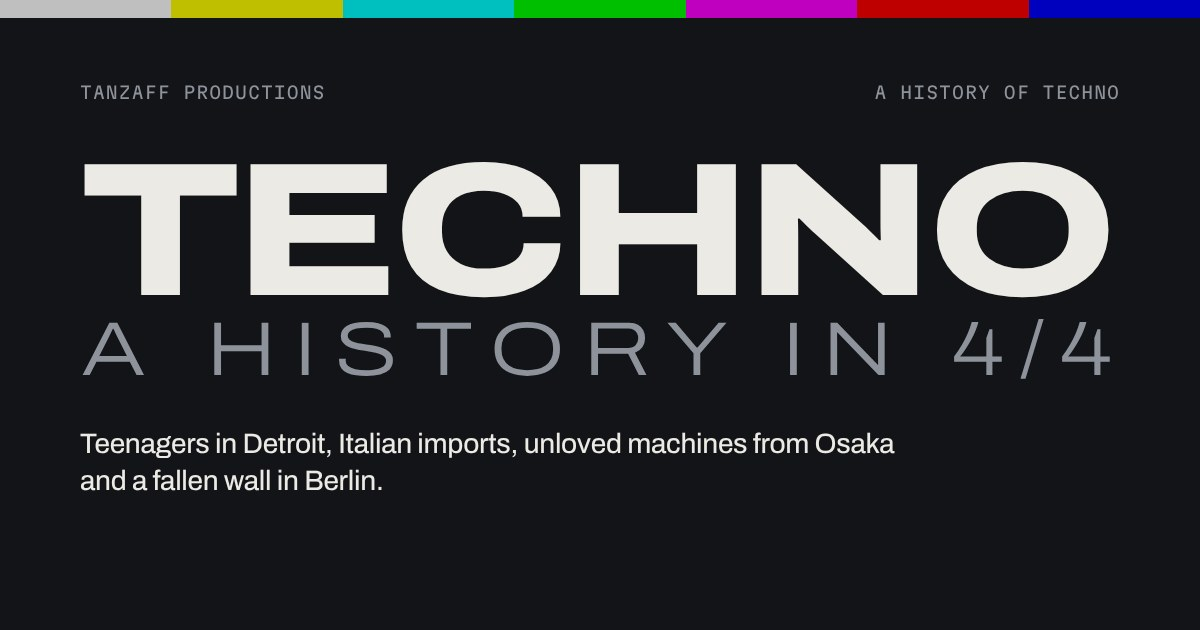
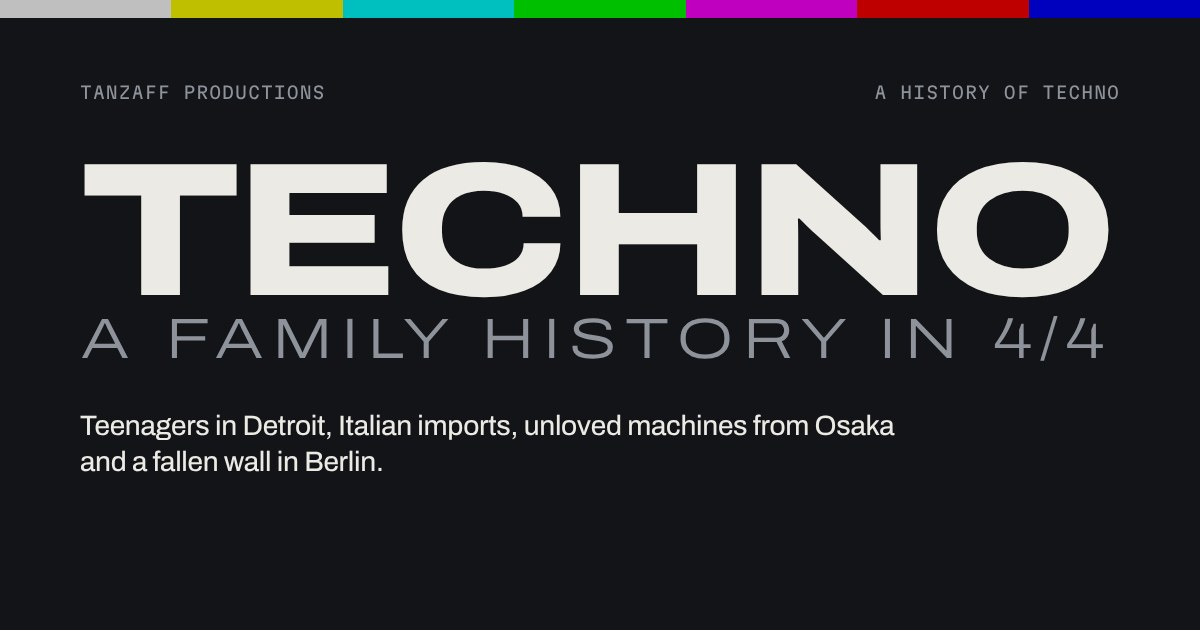
Techno article: subtitle 'A family history in 4/4' (wordmark lockup refitted, og image regenerated); home teaser and side-roads intro reworded
Claude-Session: https://claude.ai/code/session_01KXoz71cHGqvtEfeKz9cG5g

Changed region(s): [[0.0617, 0.4825, 0.925, 0.6032], [0.0617, 0.6635, 0.7708, 0.7841]]

diff --git a/techno/index.html b/techno/index.html
@@ -3,7 +3,7 @@
   <head>
     <meta charset="utf-8" />
     <meta name="viewport" content="width=device-width, initial-scale=1" />
-    <title>Techno, a history in 4/4 | Tanzaff Productions</title>
+    <title>Techno, a family history in 4/4 | Tanzaff Productions</title>
     <meta name="description" content="Teenagers in Detroit, Italian imports, unloved machines from Osaka and a fallen wall in Berlin: how one beat became a music the whole world dances to." />
     <link rel="canonical" href="https://tanzaff.ch/techno/" />
     <meta name="theme-color" content="#121418" />
@@ -11,16 +11,16 @@
     <meta property="og:type" content="article" />
     <meta property="og:site_name" content="Tanzaff Productions" />
     <meta property="og:locale" content="en_US" />
-    <meta property="og:title" content="Techno, a history in 4/4" />
+    <meta property="og:title" content="Techno, a family history in 4/4" />
     <meta property="og:description" content="Teenagers in Detroit, Italian imports, unloved machines from Osaka and a fallen wall in Berlin." />
     <meta property="og:url" content="https://tanzaff.ch/techno/" />
     <meta property="og:image" content="https://tanzaff.ch/techno/media/og.jpg" />
     <meta property="og:image:width" content="1200" />
     <meta property="og:image:height" content="630" />
-    <meta property="og:image:alt" content="Techno, a history in 4/4, by Tanzaff Productions" />
+    <meta property="og:image:alt" content="Techno, a family history in 4/4, by Tanzaff Productions" />
 
     <meta name="twitter:card" content="summary_large_image" />
-    <meta name="twitter:title" content="Techno, a history in 4/4" />
+    <meta name="twitter:title" content="Techno, a family history in 4/4" />
     <meta name="twitter:description" content="Teenagers in Detroit, Italian imports, unloved machines from Osaka and a fallen wall in Berlin." />
     <meta name="twitter:image" content="https://tanzaff.ch/techno/media/og.jpg" />
 
@@ -29,7 +29,7 @@
 
     <link rel="preload" href="../fonts/archivo-latin.woff2" as="font" type="font/woff2" crossorigin />
     <link rel="preload" href="../fonts/martian-mono-latin.woff2" as="font" type="font/woff2" crossorigin />
-    <link rel="stylesheet" href="../styles.css?v=29" />
+    <link rel="stylesheet" href="../styles.css?v=30" />
   </head>
   <body>
     <!-- EBU colour bars at 75%: white, yellow, cyan, green, magenta, red, blue -->
@@ -38,7 +38,7 @@
     <main class="page">
       <header class="masthead">
         <p class="ident"><a class="ident-link" href="../">&larr; Tanzaff Productions</a><span>Music for Monkeys</span><span>A history of techno</span></p>
-        <h1 class="wordmark wordmark-story">Techno <span>A history in 4/4</span></h1>
+        <h1 class="wordmark wordmark-story">Techno <span>A family history in 4/4</span></h1>
         <p class="lead-wrap">
           Teenagers in Detroit, a crate of Italian imports, some unloved machines from Osaka
           and a wall that fell over in Berlin. How one beat got passed around until the whole
@@ -454,7 +454,7 @@
         <div class="story-label"><p class="label label-signal">Side roads</p><p class="tc">1970s&ndash;1982</p></div>
         <div class="story-body">
           <h3 id="sideroads-title" class="story-title">What fed in from outside</h3>
-          <p>Not techno, not its ancestors. Tanzaff borrows from them anyway.</p>
+          <p>Not techno, not its ancestors. They feed into Tanzaff all the same.</p>
           <dl class="facts">
             <div><dt>1970s</dt><dd><b>Dub</b> <span class="muted">&middot; Kingston.</span> Reggae remixed on the mixing desk: echo, reverb, everything dropped out but bass and drums. <span class="tz">Tanzaff</span> Extrasolar Lullaby</dd></div>
             <div><dt>Early 1980s</dt><dd><b>Synth-pop</b> <span class="muted">&middot; UK, Zurich.</span> Pop songs on cheap synths and drum machines. Yello, in Zurich. <span class="tz">Tanzaff</span> Light Weight Baby, Tacoma Bridge, Les Romands</dd></div>

diff --git a/index.html b/index.html
@@ -37,7 +37,7 @@
          styles.css or player.js so a reload picks the changes up. -->
     <link rel="preload" href="fonts/archivo-latin.woff2" as="font" type="font/woff2" crossorigin />
     <link rel="preload" href="fonts/martian-mono-latin.woff2" as="font" type="font/woff2" crossorigin />
-    <link rel="stylesheet" href="styles.css?v=29" />
+    <link rel="stylesheet" href="styles.css?v=30" />
 
     <script type="application/ld+json">
       {
@@ -563,10 +563,10 @@
             </span>
             <span class="history-text">
               <span class="tc history-meta">6 chapters &middot; 1 clip with sound</span>
-              <span class="history-title">Techno, a history in 4/4</span>
-              <span class="history-note">None of this was invented here. The kick, the machines, the habit of misusing them:
-              all borrowed from Detroit teenagers, Italian imports and a Berlin bank vault. Here&rsquo;s the
-              family tree. Footnotes included.</span>
+              <span class="history-title">Techno, a family history in 4/4</span>
+              <span class="history-note">The kick, the machines, the habit of misusing them: they came from Detroit
+              teenagers, Italian imports and a Berlin bank vault. Here&rsquo;s the family tree, Tanzaff included.
+              Footnotes too.</span>
               <span class="teaser-cta">Read the history &rarr;</span>
             </span>
           </a>

diff --git a/styles.css b/styles.css
@@ -892,13 +892,13 @@ button:focus-visible {
 
 /* --- Article masthead --- */
 
-/* "A HISTORY IN 4/4" is about 10.3em long against TECHNO's 5.43em, so at 0.4em
-   and 0.218em tracking it spans exactly the width of TECHNO, the same lockup
-   as TANZAFF / PRODUCTIONS */
+/* "A FAMILY HISTORY IN 4/4" is about 14.85em long (23 characters) against
+   TECHNO's 5.43em, so at 0.3em and 0.142em tracking it spans exactly the width
+   of TECHNO, the same lockup as TANZAFF / PRODUCTIONS */
 .wordmark-story span {
-  font-size: 0.4em;
-  letter-spacing: 0.218em;
-  margin-right: -0.218em;
+  font-size: 0.3em;
+  letter-spacing: 0.142em;
+  margin-right: -0.142em;
 }
 
 .lead-wrap {

diff --git a/README.md b/README.md
@@ -19,7 +19,7 @@ Then visit http://localhost:8000
 | File | What it does |
 | --- | --- |
 | `index.html` | The home page: hero, Featured, About, All tracks, Collaborations, Studio, Listen, Techno history teaser, footer |
-| `techno/index.html` | The article *Techno, a history in 4/4*, in six chapters |
+| `techno/index.html` | The article *Techno, a family history in 4/4*, in six chapters |
 | `techno/media/` | The article's one clip with sound (`loop.mp4`), its poster frame, and its link-preview image `og.jpg` |
 | `styles.css` | All the styling. Colors are variables at the top |
 | `player.js` | Opens a track in a player on the page instead of sending the visitor to YouTube |
